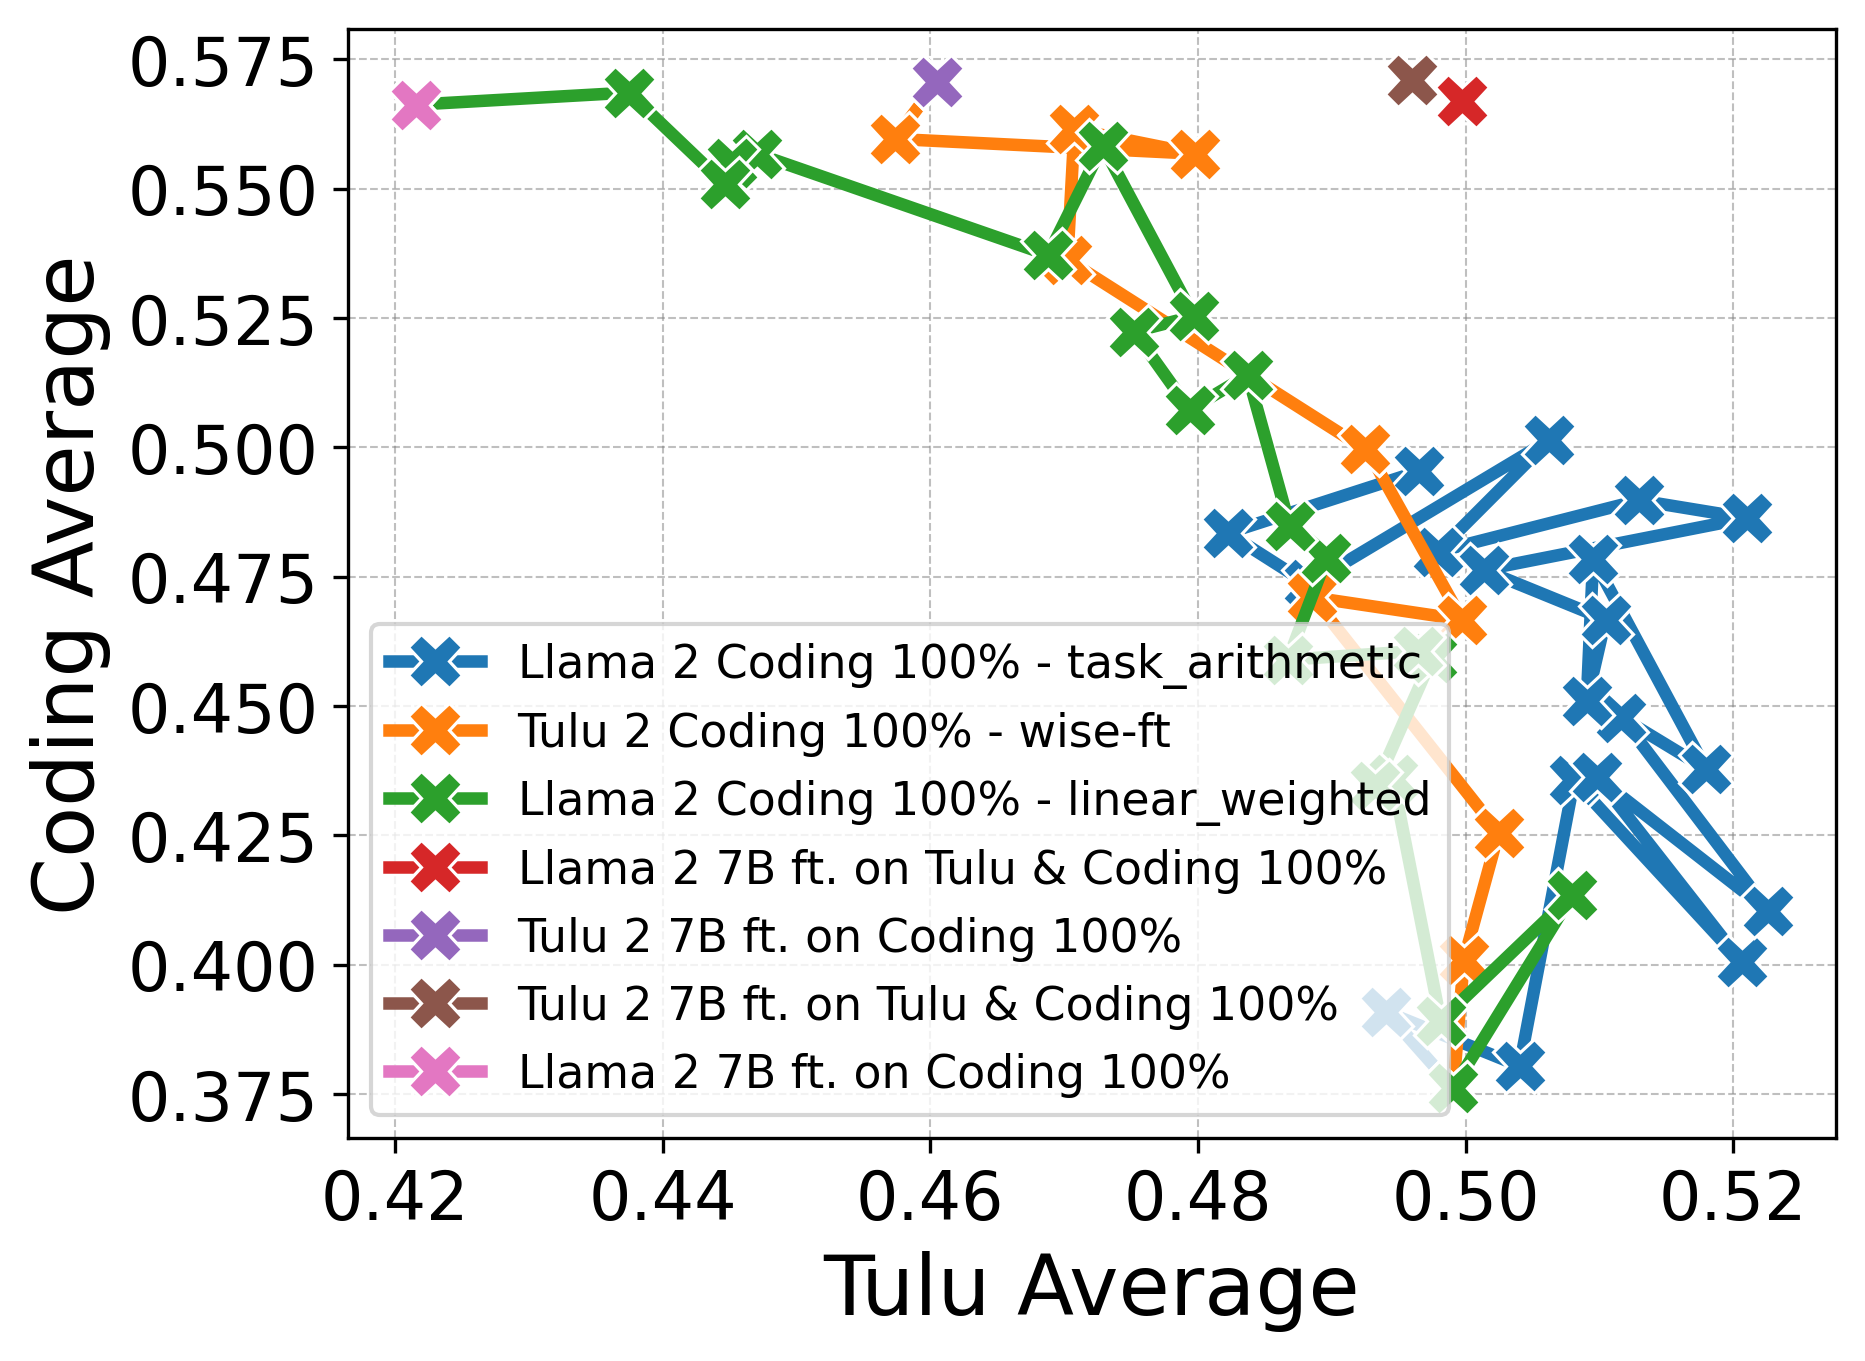
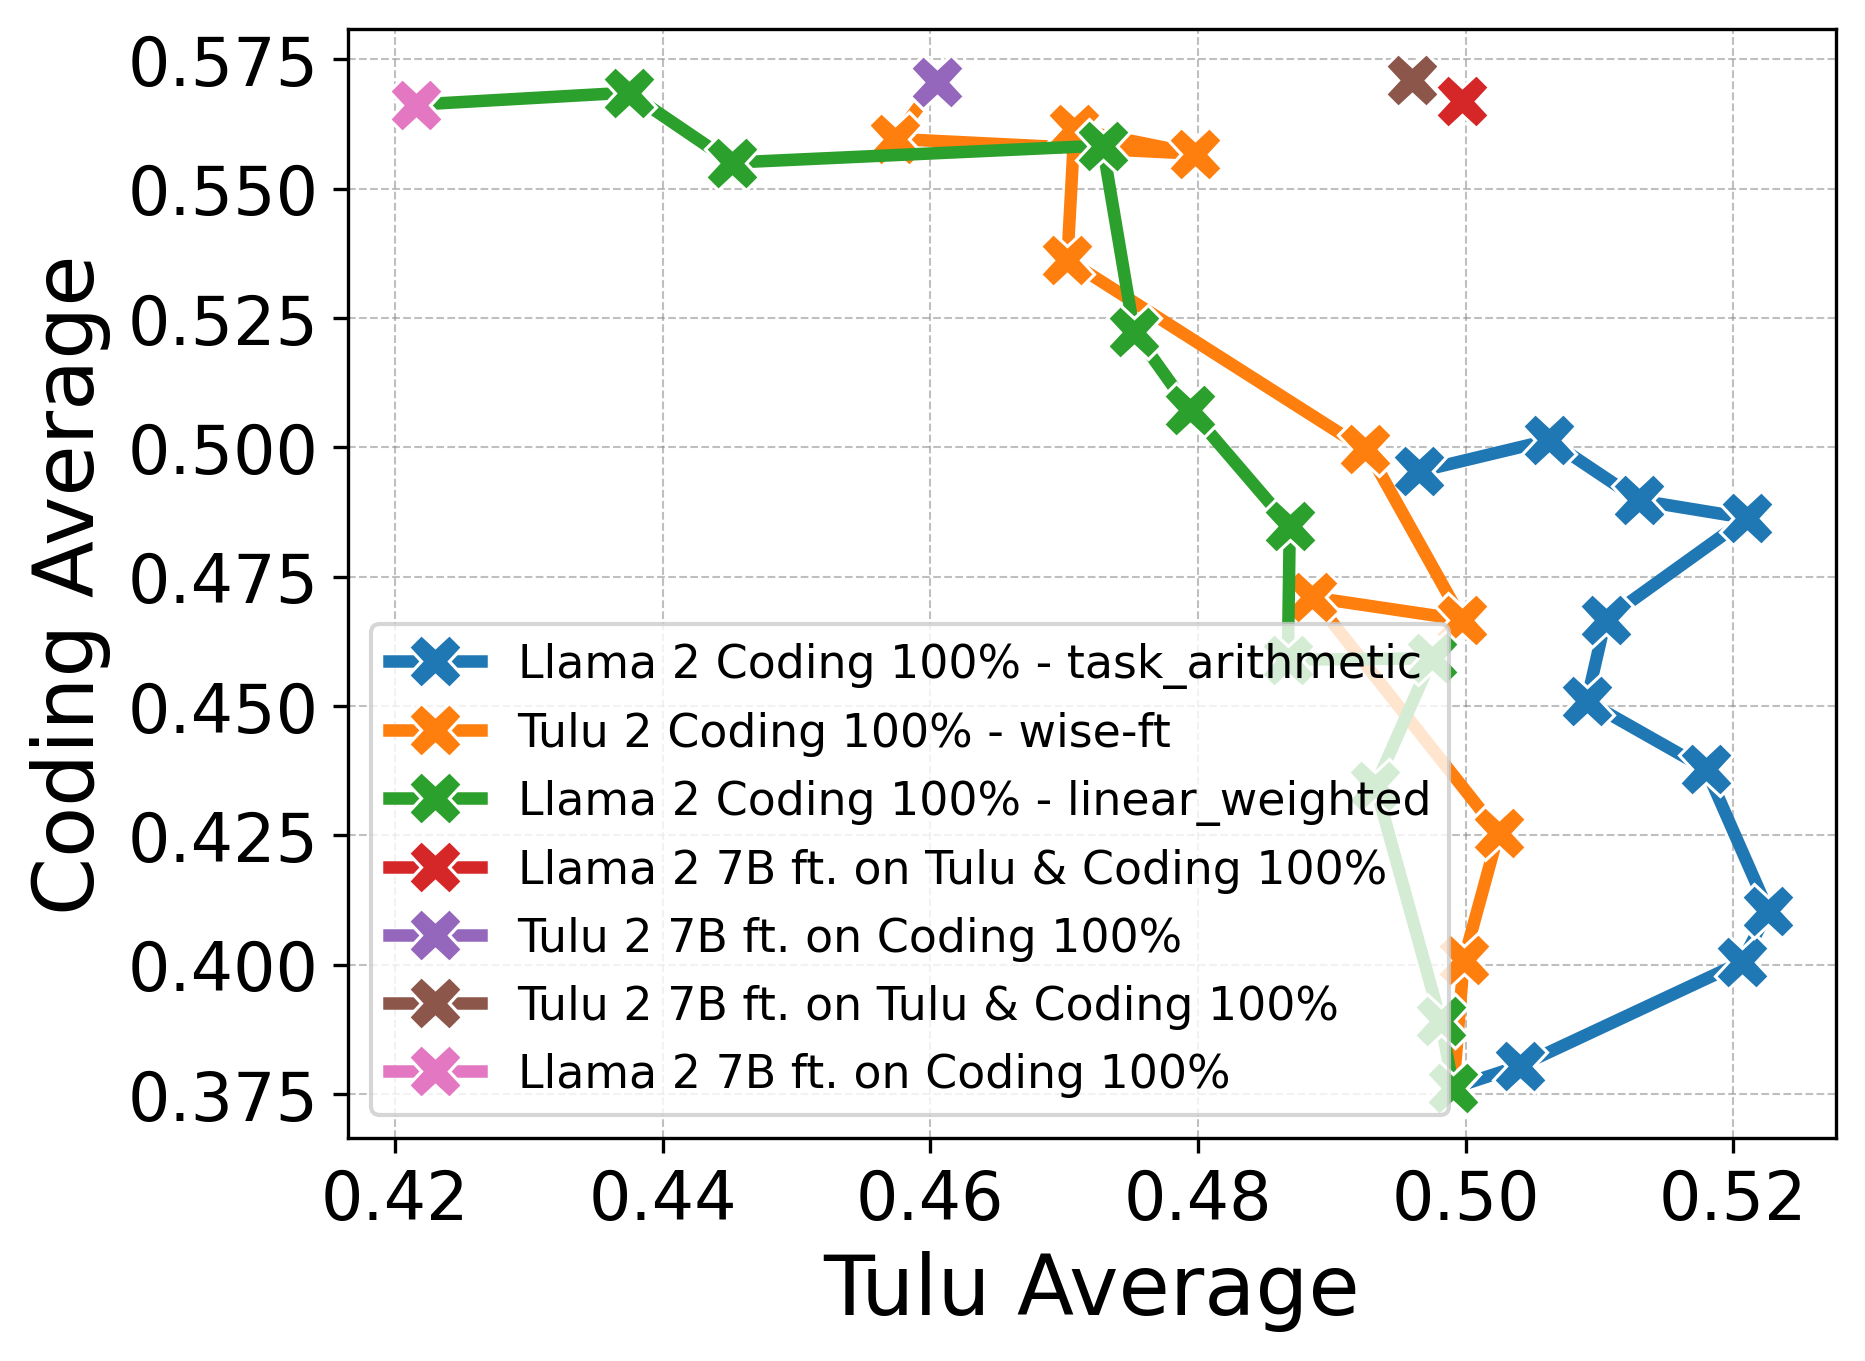
merge all 3 domains together into one

Changed region(s): [[0.622, 0.2469, 0.9641, 0.8024], [0.3421, 0.0617, 0.6531, 0.2469], [0.7153, 0.4629, 0.7775, 0.4938]]

diff --git a/results/consistent_mix/graph-results.py b/results/consistent_mix/graph-results.py
@@ -289,7 +289,14 @@ def plot_individual_science_curves():
         plt.clf()
 
 def plot_individual_coding_curves():
-        amount = "100"
+    coding_amounts = [
+        "20",
+        "40",
+        "60",
+        "80",
+        "100",
+    ]
+    for amount in coding_amounts:
         df = get_df()
         df["Order"] = df["domain_model_weight"]
         df.sort_values(by='Combo', inplace=True)
@@ -298,9 +305,12 @@ def plot_individual_coding_curves():
             ~df["Combo"].str.contains("Science 2500") &
             ~df["Combo"].str.contains("Safety 100") &
             ~df["Combo"].str.contains("w/ Coding") &
-            df["Combo"].str.contains("Coding 100")
+            ~df["tulu_model"].str.contains("coding") &
+            df["Combo"].str.contains(f"Coding {amount}")
         ]
 
+
+        print(df)
         sns.lineplot(data=df, x="Tulu Average", y="Coding Average", hue="Combo", sort=False, marker='X', linewidth=3, markersize=13)
         plt.legend()
         plt.xlabel("Tulu Average",fontsize=20)
@@ -313,40 +323,48 @@ def plot_individual_coding_curves():
         plt.savefig(f'results/consistent_mix/plots/coding_{amount}.png', dpi=300, bbox_inches='tight')
         plt.clf()
 
-def plot_safety_curves():
-    df = get_df()
-    df["Order"] = df["domain_model_weight"]
-    df.sort_values(by='Combo', inplace=True)
-    df.sort_values(by='Order', inplace=True)
-    # df = df[(df["normalized_safe_average"] > 0) | ("safety_100" in df["model_key"])]
-    # df = df[~df["domain_model"].isin({
-        # "science_2500",
-        # "coding_100"
-    # })]
-    df = df[
-        ~df["Combo"].str.contains("Science 2500") &
-        ~df["Combo"].str.contains("Coding 100") &
-        df["Combo"].str.contains("Safety 100")
-    ]
+def plot_individual_safety_curves():
+        amount = "100"
+        df = get_df()
+        df["Order"] = df["domain_model_weight"]
+        df.sort_values(by='Combo', inplace=True)
+        df.sort_values(by='Order', inplace=True)
+        # df = df[(df["normalized_safe_average"] > 0) | ("safety_100" in df["model_key"])]
+        # df = df[~df["domain_model"].isin({
+            # "science_2500",
+            # "coding_100"
+        # })]
+        df = df[
+            ~df["Combo"].str.contains("Science 2500") &
+            ~df["Combo"].str.contains("Coding 100") &
+            df["Combo"].str.contains(f"Safety {amount}")
+        ]
 
-    pd.set_option('display.max_colwidth', None)
-    # print(df["model_key"])
-    # sns.lineplot(data=df, x="Tulu Average", y="Safety Average", hue="Combo", sort=False, marker='o', linewidth=3, markersize=13)
-    # plt.xlabel("Tulu Average",fontsize=18)
-    # plt.ylabel("Safety Average",fontsize=18)
+        # pd.set_option('display.max_colwidth', None)
 
-    sns.lineplot(data=df, x="Exaggerated Refusals", y="Safety Average", hue="Combo", sort=False, marker='o', linewidth=3, markersize=13)
-    plt.xlabel("Exaggerated Refusals",fontsize=18)
-    plt.ylabel("Safety Average",fontsize=18)
+        sns.lineplot(data=df, x="Tulu Average", y="Safety Average", hue="Combo", sort=False, marker='o', linewidth=3, markersize=13)
+        plt.legend()
+        plt.xlabel("Tulu Average",fontsize=20)
+        plt.ylabel("Safety Average",fontsize=20)
 
-    # sns.lineplot(data=df, x="Tulu Average", y="Exaggerated Refusals", hue="Combo", sort=False, marker='X', linewidth=3, markersize=13)
-    # plt.xlabel("Tulu Average",fontsize=18)
-    # plt.ylabel("Exaggerated Refusals",fontsize=18)
+        # sns.lineplot(data=df, x="Exaggerated Refusals", y="Safety Average", hue="Combo", sort=False, marker='o', linewidth=3, markersize=13)
+        # plt.legend()
+        # plt.xlabel("Exaggerated Refusals",fontsize=20)
+        # plt.ylabel("Safety Average",fontsize=20)
 
-    plt.legend()
-    plt.grid(True, linestyle='--', linewidth=0.5, color='gray', alpha=0.5)
-    plt.show()
+        # sns.lineplot(data=df, x="Tulu Average", y="Exaggerated Refusals", hue="Combo", sort=False, marker='X', linewidth=3, markersize=13)
+        # plt.legend()
+        # plt.xlabel("Tulu Average",fontsize=20)
+        # plt.ylabel("Exaggerated Refusals",fontsize=20)
+
+        plt.xticks(fontsize=16)
+        plt.yticks(fontsize=16)
+        plt.legend(fontsize=11)
+
+        plt.grid(True, linestyle='--', linewidth=0.5, color='gray', alpha=0.5)
+        plt.savefig(f'results/consistent_mix/plots/safety_{amount}.png', dpi=300, bbox_inches='tight')
+        plt.clf()
 
 # plot_individual_science_curves()
-plot_individual_coding_curves()
-# plot_safety_curves()
+# plot_individual_coding_curves()
+plot_individual_safety_curves()
